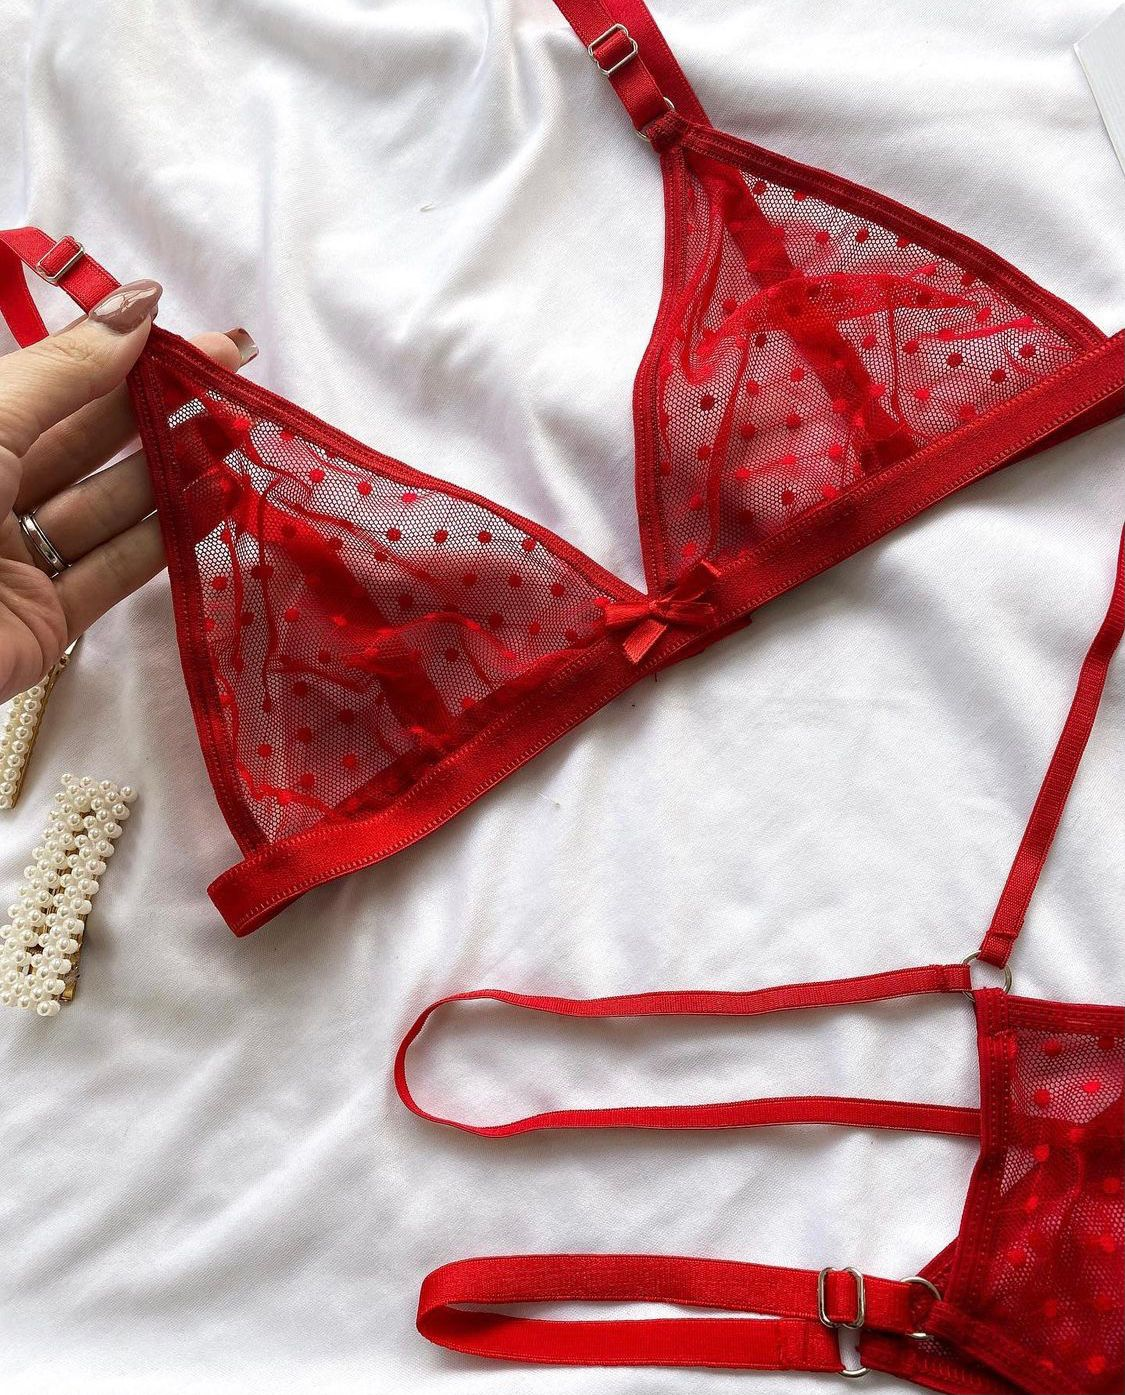
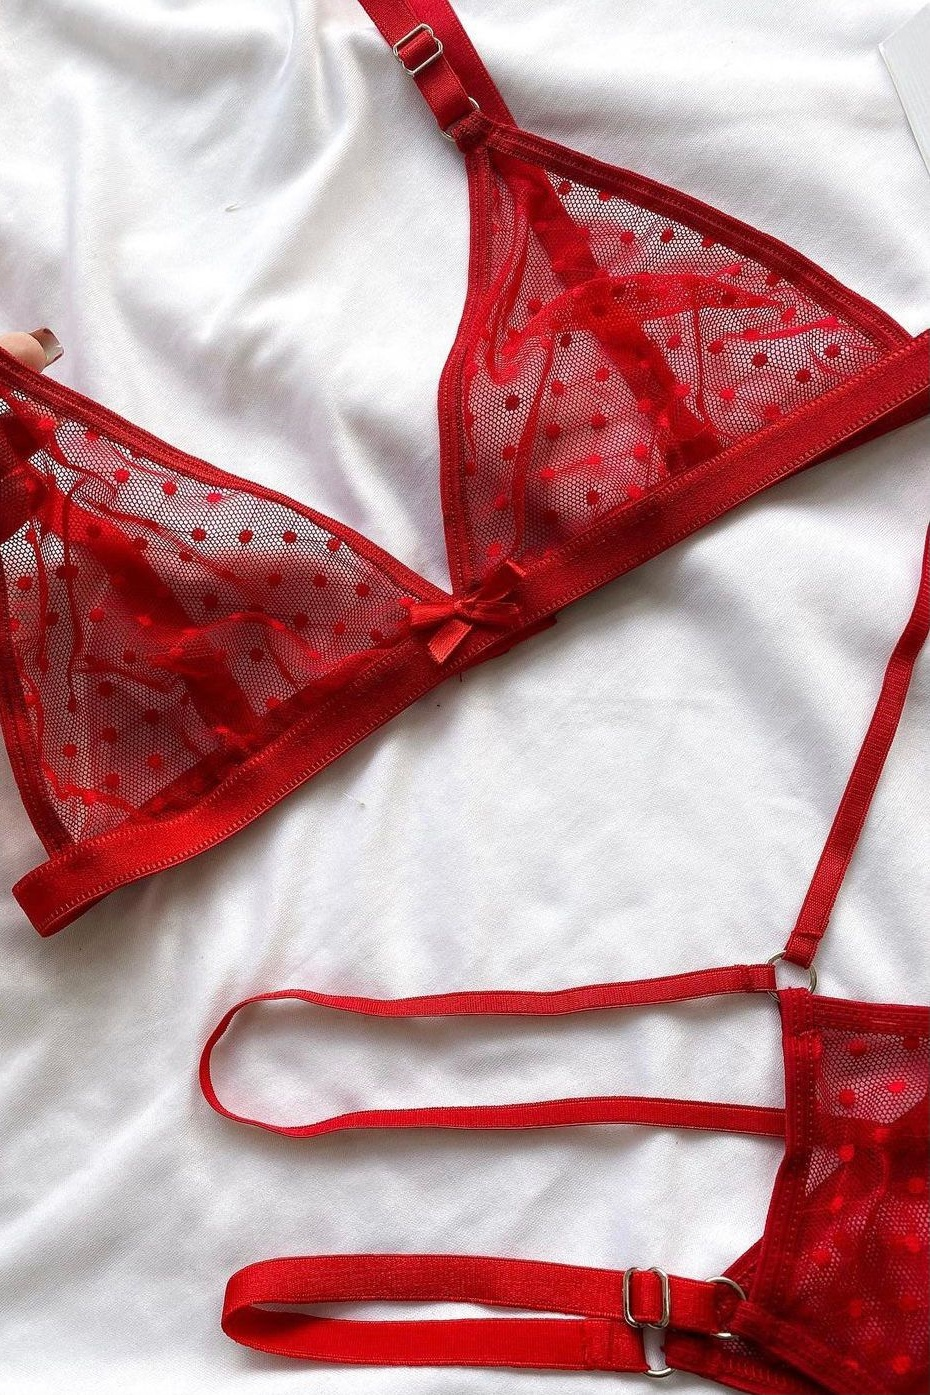
cambiando resolucion de imagenes y sancandole bordes a las cards

diff --git a/index.html b/index.html
@@ -67,7 +67,7 @@
       <main class="container fluid">
         <h1>Productos destacados</h1>
         <div class="row justify-content-around">
-          <div class="card" style="width: 18rem;">
+          <div class="card border-0" style="width: 18rem;">
             <div id="carouselExampleControls" class="carousel slide" data-bs-ride="carousel">
               <div class="carousel-inner">
                 <div class="carousel-item active">
@@ -85,7 +85,7 @@
               <p class="card-text">Conjunto de terciopelo $1250. Disponible del talle 85 al 100, con colales regulable. Viene en color negro, rosa, rojo, gris, bordo y azul.</p>
             </div>
           </div>
-          <div class="card" style="width: 18rem;">
+          <div class="card border-0" style="width: 18rem;">
             <div id="carouselExampleControls" class="carousel slide" data-bs-ride="carousel">
               <div class="carousel-inner">
                 <div class="carousel-item active">
@@ -103,7 +103,7 @@
               <p class="card-text">Conjunto de encaje con aro $950. Disponible del talle 85 al 100. Viene en color negro, rojo y blanco.</p>
             </div>
           </div>
-          <div class="card" style="width: 18rem;">
+          <div class="card border-0" style="width: 18rem;">
             <div id="carouselExampleControls" class="carousel slide" data-bs-ride="carousel">
               <div class="carousel-inner">
                 <div class="carousel-item active">
@@ -121,7 +121,7 @@
               <p class="card-text">Conjunto de plumeti $950 Disponible del talle 85 al 100, con colales doble tira. Viene en color blanco, negro, rojo y rosa.</p>
             </div>
           </div>
-          <div class="card" style="width: 18rem;">
+          <div class="card border-0" style="width: 18rem;">
             <div id="carouselExampleControls" class="carousel slide" data-bs-ride="carousel">
               <div class="carousel-inner">
                 <div class="carousel-item active">

diff --git a/pages/politica de cambios.html b/pages/politica de cambios.html
@@ -43,7 +43,7 @@
         </div>
       </nav>
 
-    <main>
+    <main >
       <h3>Realizamos cambios únicamente por talle! De los conjuntos de lencería (Pijamas, bikinis, pack de bombachas y bodys NO TIENEN CAMBIO)
         Los cambios se realizan avisando mediante ig y acercandose a Devoto ( sin excepción).Mientras el producto se encuentre en las mismas condiciones que fue entregado lo podremos cambiar, solo por talle en base al stock disponible. No hacemos cambios ni por modelo ni por color. 
         Los cambios se realizan hasta 10 días luego de la compra sin excepción!</h3>
